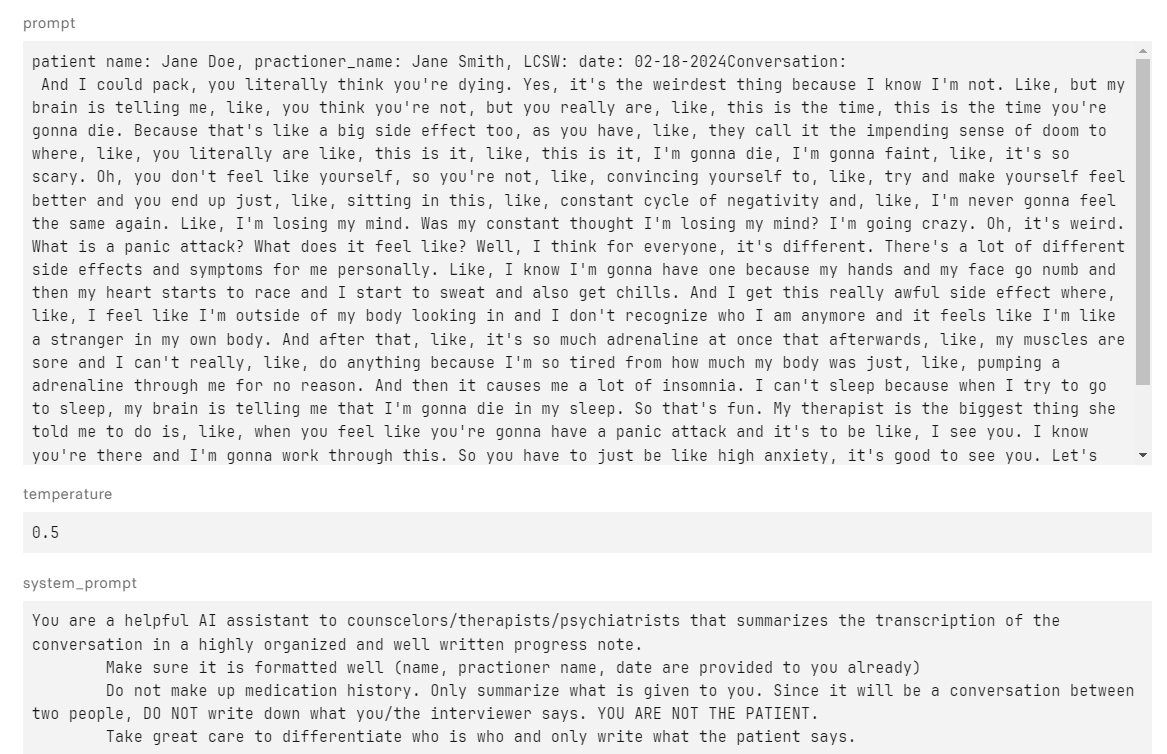
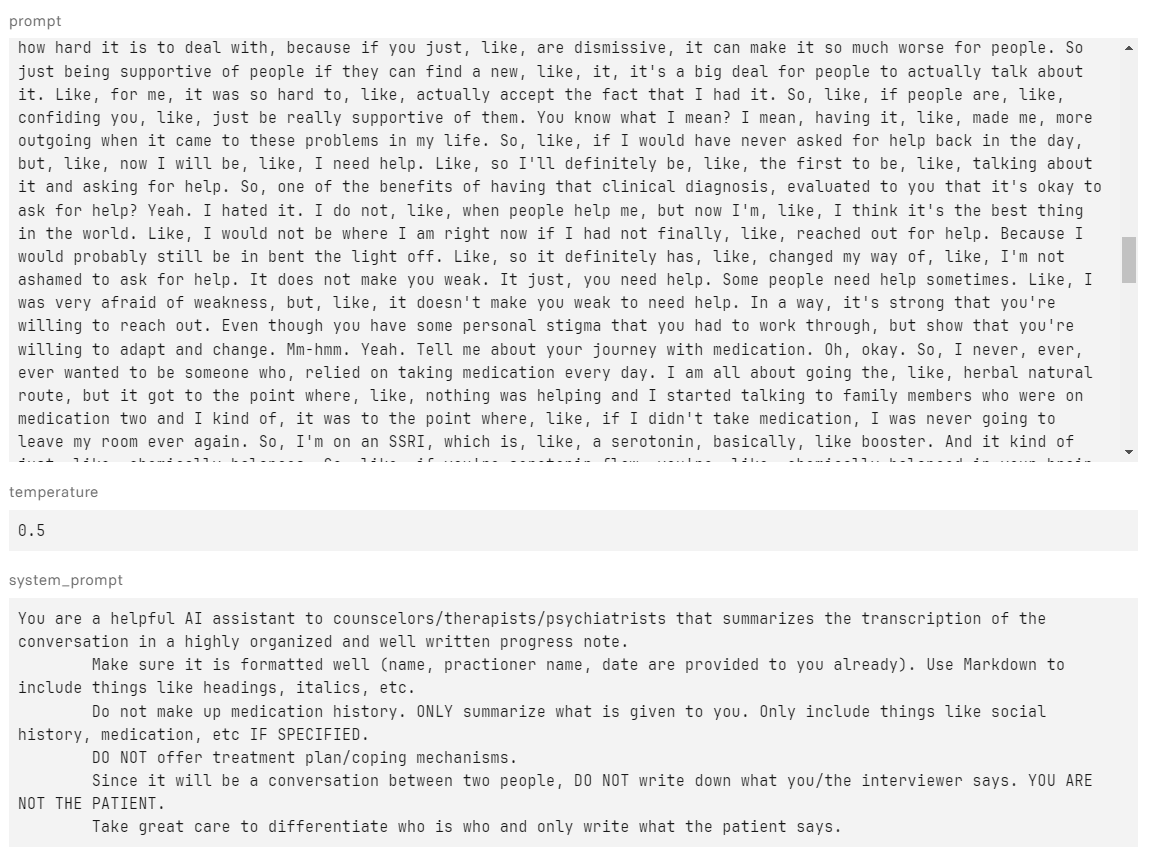
adjusted zero shot prompt because of severe hallucinaation, also added starter code for pdf export support

Changed region(s): [[0.0, 0.0, 0.9897, 0.6101], [0.0, 0.6406, 0.9588, 1.0], [0.0, 0.6101, 0.0309, 0.6406]]

diff --git a/test_llama70b.py b/test_llama70b.py
@@ -1,0 +1,40 @@
+import replicate
+
+
+
+
+prompt = '''
+It sounds like you have had a significant journey with anxiety and panic attacks, and it's great that you are now feeling more comfortable opening up about your experiences. It's important to remember that mental health is just as important as physical health, and seeking help when needed is a sign of strength, not weakness.
+
+It's interesting that you mentioned the physical symptoms of anxiety, such as stomach pain and hyperventilating, as these can be very uncomfortable and disruptive to daily life. It's also understandable that you felt embarrassed about your anxious ticks as a child, but it's helpful to recognize that these behaviors were likely a way of coping with your anxiety.
+
+It's great that you have found medication to be helpful in managing your anxiety, and it's important to remember that taking medication doesn't mean you're weak or flawed. It's simply a tool to help manage a common medical condition.
+
+I would encourage you to continue sharing your story and experiences with others, as this can help break down the stigma surrounding mental health issues and inspire others to seek help if they need it. Remember that you are not alone in your struggles, and that there is always support available for those who are willing to reach out.
+
+Finally, it might be helpful to explore other ways to manage your anxiety, such as therapy, mindfulness practices, or relaxation techniques. These can be used in conjunction with medication to provide additional support and help you feel more confident and in control.'''
+
+
+output = replicate.run(
+    "replicate-internal/staging-llama-2-70b-chat-hf-mlc:a0a2781978454e825c3b81e87d6cff5928c43ad81bdc23b5cf11300d40b92916",
+    input={
+        "debug": True,
+        "top_p": 1,
+        "prompt": prompt,
+        "temperature": 0.5,
+        "system_prompt": """Llama, you are a helpful AI assistant to mental health professionals and therapists that SUMMARIZES (not repeat) the transcription of between a patient and practioner in a highly organized and well written progress note meant for therapists to use. Follow proper protocol for therapists as progress notes are part of their clinical responsibilities.
+        Make sure it is formatted well (name, practioner name, date are provided to you already). Use Markdown to include things like headings, italics, etc. Follow Markdown heaving/style conventions.
+        Do not make up medication history. ONLY summarize what is given to you. Only include things like social history, medication, etc IF SPECIFIED. 
+        DO NOT offer treatment plan/coping mechanisms.
+        Since it will be a conversation between two people, DO NOT write down what you/the interviewer says.  
+        Take great care to differentiate who is who and only write what the patient says.""",
+        "max_new_tokens": 500,
+        "min_new_tokens": -1
+    }
+)
+
+# The replicate-internal/staging-llama-2-70b-chat-hf-mlc model can stream output as it's running.
+# The predict method returns an iterator, and you can iterate over that output.
+for item in output:
+    # https://replicate.com/replicate-internal/staging-llama-2-70b-chat-hf-mlc/api#output-schema
+    print(item, end="")

diff --git a/app.py b/app.py
@@ -46,11 +46,11 @@ if 'parsed_text' in st.session_state:
     "meta/llama-2-70b-chat",
     input={
         "prompt": f"patient name: {patient_name}, practioner_name: {practioner_name}: date: {date}" + "Conversation:\n" + st.session_state['parsed_text'],
-        "system_prompt": """You are a helpful AI assistant to counscelors/therapists/psychiatrists that summarizes the transcription of the conversation in a highly organized and well written progress note. 
-        Make sure it is formatted well (name, practioner name, date are provided to you already)
+        "system_prompt": """Llama, you are a helpful AI assistant to mental health professionals and therapists that SUMMARIZES (not repeat) the transcription of between a patient and practioner in a highly organized and well written progress note meant for therapists to use. Follow proper protocol for therapists as progress notes are part of their clinical responsibilities.
+        Make sure it is formatted well (name, practioner name, date are provided to you already).
         Do not make up medication history. ONLY summarize what is given to you. Only include things like social history, medication, etc IF SPECIFIED. 
         DO NOT offer treatment plan/coping mechanisms.
-        Since it will be a conversation between two people, DO NOT write down what you/the interviewer says. YOU ARE NOT THE PATIENT. 
+        Since it will be a conversation between two people, DO NOT write down what you/the interviewer says.  
         Take great care to differentiate who is who and only write what the patient says.""",
         "debug": True,
         "top_k": 50,
@@ -62,8 +62,7 @@ if 'parsed_text' in st.session_state:
     )
     joined_note_output = "".join(i for i in output)
     st.write(joined_note_output)
-    export_btn = st.button('Export Progress Note as PDF')
-
+    # will add functionality later - export_btn = st.button('Export Progress Note as PDF')
     # this is how streamlit handles event listeners, just check if true
 
 # streamlit's magic automatically writes triple strings ... so 

diff --git a/README.md b/README.md
@@ -16,11 +16,11 @@ Here's a look at the system prompt and an example of what prompts look like afte
 ![Prompt and System Prompt](prompt_and_system-prompt-for-llama2-70b.png)
 
 ## To Dos
-* A no brainer, but authentication/user accounts. These progress notes need to have rock solid security. Everything needs to be HIPAA compliant. Recordings, transcriptions, and notes need to be secure. Thankfully, that's not hard if we migrate to ... . 
-* **to a standard web application. We will build with NextJS deploy with Vercel**. This MVP is great, but having our own web app where we're fully in control of frontend, routing, API and models/dbs seems a like a no brainer. The only problem is setting up chat interfaces without tools like Gradio/Streamlit is not easy and requires a lot of additional research.
+
 * Implement long-term memory by using ChromaDB. Currently treatment_plan_updates and assessment_notes are yet to be implemented, since we need look at previous notes. We can't do any of that if the model doesn't have any embeddings/documents to gain long-term memory.
 * Microphone support. Absolute no brainer feature. We need to be able to let the user record audio and let each additional recording update each iteration of the transcription to make it all around comprehensive and more user-friendly. This also **makes recordings a lot more secure if done in a secure environment, making the need to hop onto a typical web app necessary**.
-
+* Sentiment analysis of conversation, will try to do by end of weekend 3/2/2024.
+* PDF support, also will need to try to finish by end of weekend 3/2/2024. Need to learn base64 encoding stuff.
 
 Instructions 
 
